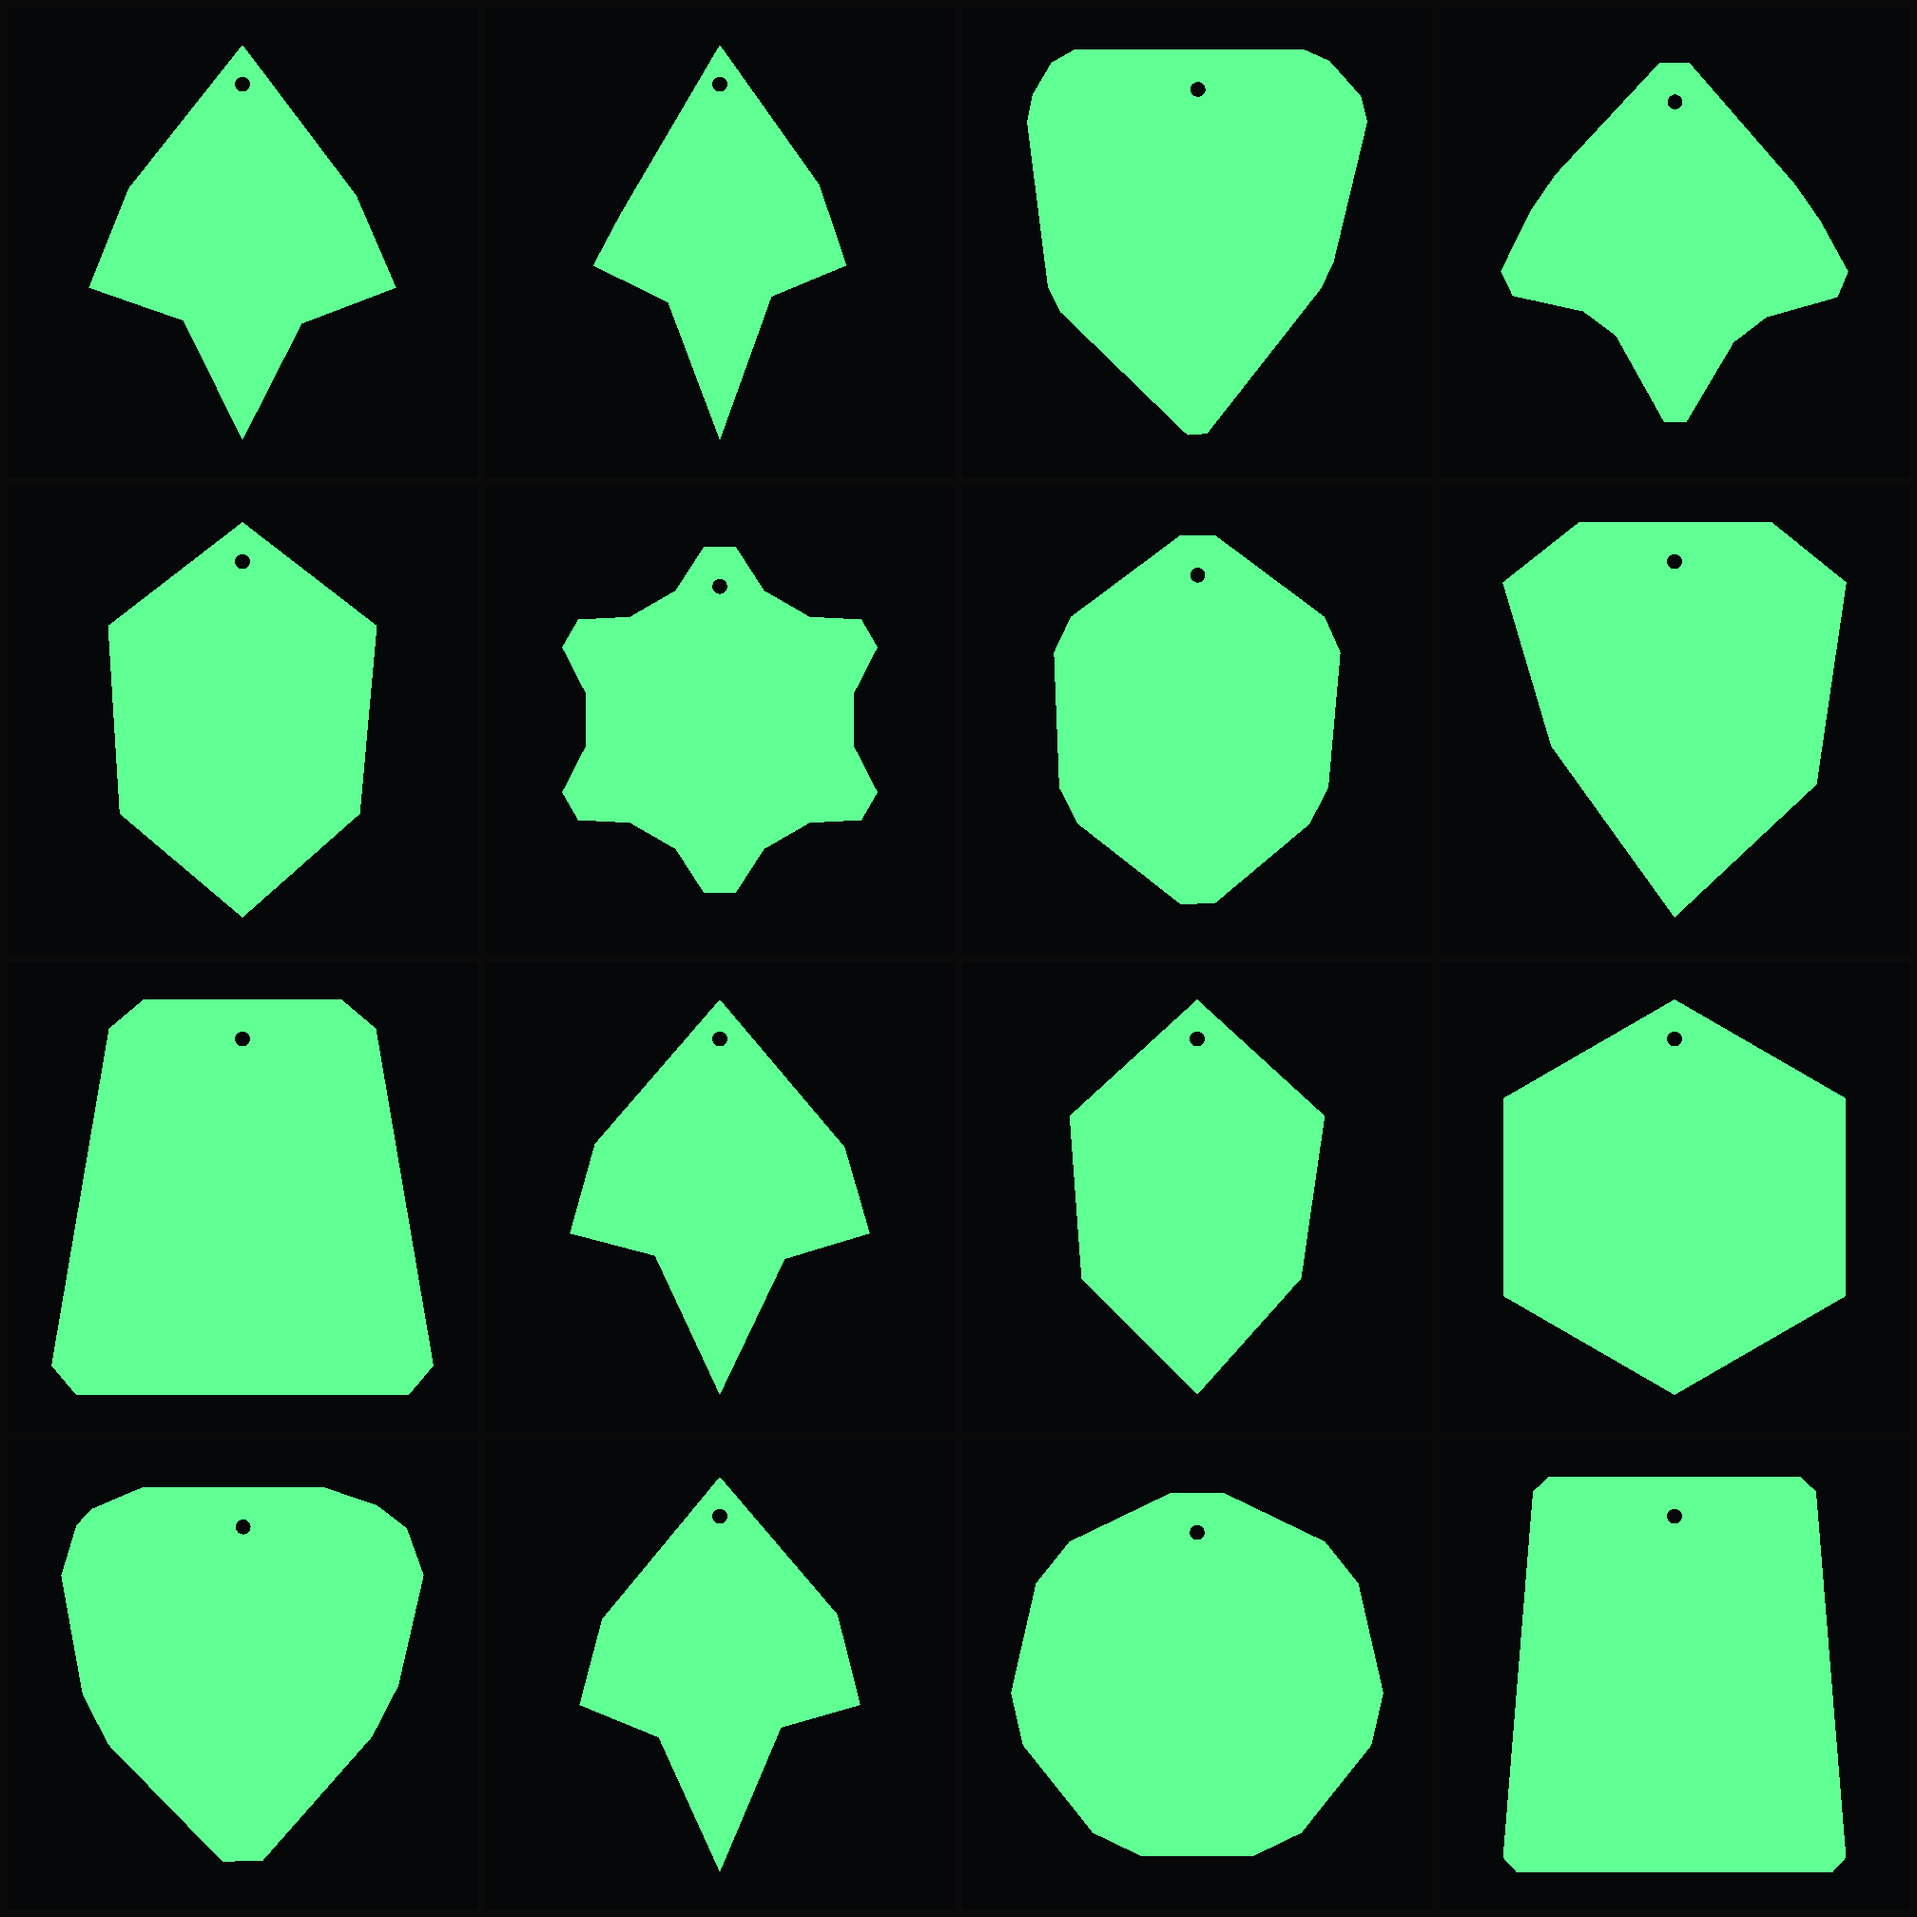
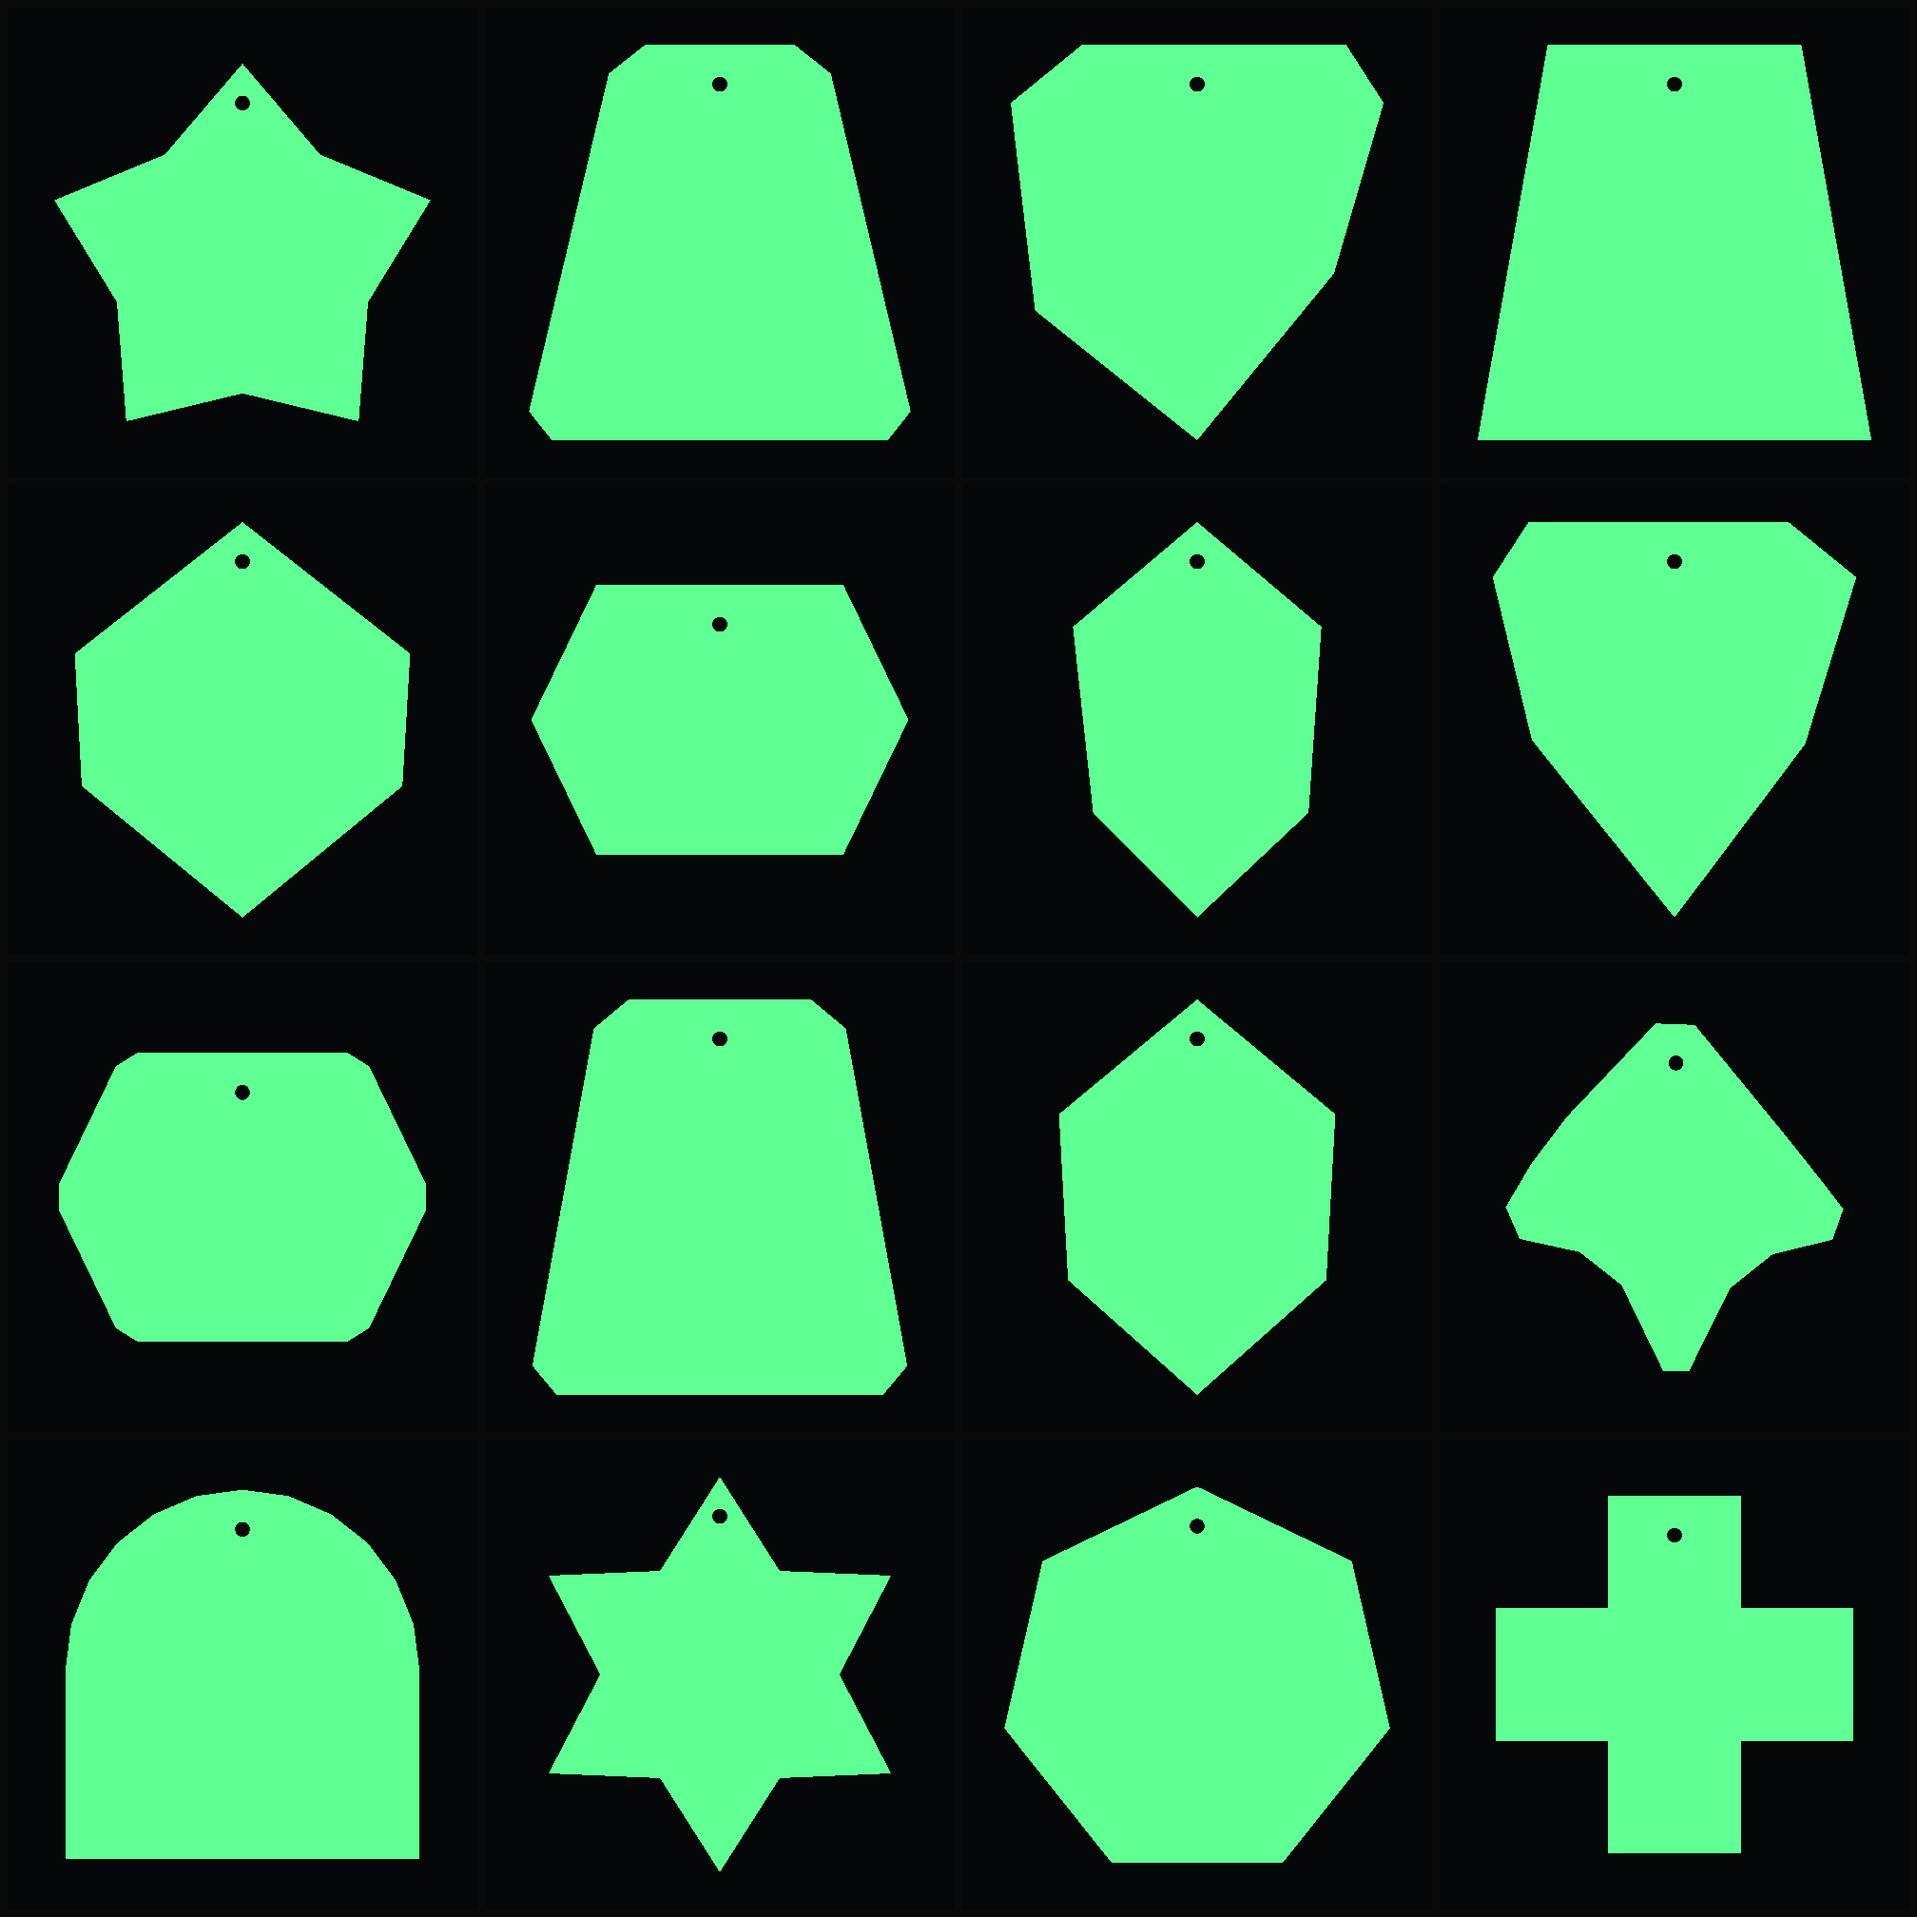
glow-set: rebalance the deck — 4 new archetypes, spear down-weighted
Uniform archetype choice let `spear` take 4 of 16 slots, and all 7 originals
were tall-and-pointed, so the set read as a pile of arrowheads.

Added cross (the only concave silhouette, and the most distinct form here),
vesica, ziggurat and arch — all flat or wide, deliberately counterweighting
the pointed forms. Selection is now weighted, with spear at 1 against 3 for
the rest, so it reads as a rare card instead of the house style.

vesica height 0.46-0.66r -> 0.66-0.84r: at 15.5mm tall the peg triangle
collapsed below the spread threshold and the shape could not be built.

16/16 clean and fitting.

Claude-Session: https://claude.ai/code/session_01EVEVVgDZimoePvUc1o1qB6

diff --git a/beads/glow-set/talismans.py b/beads/glow-set/talismans.py
@@ -141,14 +141,64 @@ def star_seal(r, g):
     return pts
 
 
-ARCHETYPES = [shield, lozenge, stele, seal, spear, keystone, star_seal]
+def cross(r, g):
+    """Greek cross - the most distinct silhouette in the set, and the only one
+    with concave corners."""
+    a = r * g.uniform(0.30, 0.42)          # half arm width
+    L = r * g.uniform(0.86, 1.0)
+    return [(-a, -L), (a, -L), (a, -a), (L, -a), (L, a), (a, a),
+            (a, L), (-a, L), (-a, a), (-L, a), (-L, -a), (-a, -a)]
+
+
+def vesica(r, g):
+    """Pointed oval on its side - wide and flat, the counterweight to all the
+    tall pointed forms."""
+    w = r * g.uniform(0.95, 1.0)
+    h = r * g.uniform(0.66, 0.84)   # <0.66 leaves too little height to space
+    k = g.uniform(0.52, 0.72)       # three pegs - the peg triangle collapses
+    return [(-w, 0.0), (-w * k, h), (w * k, h), (w, 0.0), (w * k, -h),
+            (-w * k, -h)]
+
+
+def ziggurat(r, g):
+    """Stepped terraces on a broad base - reads as built, not cut."""
+    steps = g.choice([2, 3])
+    bw = r * g.uniform(0.88, 1.0)
+    tw = bw * g.uniform(0.34, 0.50)
+    pts_r, pts_l = [], []
+    for i in range(steps + 1):
+        t = i / steps
+        w = bw + (tw - bw) * t
+        y0 = -r + 2 * r * t
+        y1 = -r + 2 * r * (i + 1) / steps if i < steps else r
+        pts_r += [(w, y0), (w, min(y1, r))]
+        pts_l += [(-w, y0), (-w, min(y1, r))]
+    return pts_r + pts_l[::-1]
+
+
+def arch(r, g):
+    """Flat base, domed top - a doorway/headstone form."""
+    w = r * g.uniform(0.72, 0.90)
+    base = -r * g.uniform(0.80, 1.0)
+    n = 12
+    top = [(w * math.cos(math.pi * i / n), r * 0.92 * math.sin(math.pi * i / n))
+           for i in range(n + 1)]
+    return [(-w, base)] + top[::-1] + [(w, base)]
+
+
+# Weighted, because uniform choice let `spear` take 4 of 16 slots and every
+# archetype was tall-and-pointed. The flat/wide forms are up-weighted to break
+# up the arrowhead read.
+ARCHETYPES = [shield, lozenge, stele, seal, spear, keystone, star_seal,
+              cross, vesica, ziggurat, arch]
+WEIGHTS = [3, 3, 3, 3, 1, 3, 2, 3, 3, 3, 3]
 
 
 def talisman(name, r_out=16.0):
     """One seeded talisman: archetype + seeded proportions + optional chamfer."""
     g = rng_for(name)
-    arch = g.choice(ARCHETYPES)
-    pts = clean(arch(r_out, g))
+    fn = g.choices(ARCHETYPES, weights=WEIGHTS, k=1)[0]
+    pts = clean(fn(r_out, g))
     if g.random() < 0.55:
         c = g.choice([1.2, 1.8, 2.4])
         cand = clean(chamfer(pts, c))
@@ -181,7 +231,7 @@ if __name__ == "__main__":
     good = 0
     for nm in ROSTER:
         g = rng_for(nm)
-        arch_name = g.choice(ARCHETYPES).__name__
+        arch_name = g.choices(ARCHETYPES, weights=WEIGHTS, k=1)[0].__name__
         pts = talisman(nm)
         f = S.fit_report(pts)
         e, a = min_edge(pts), min_angle(pts)
